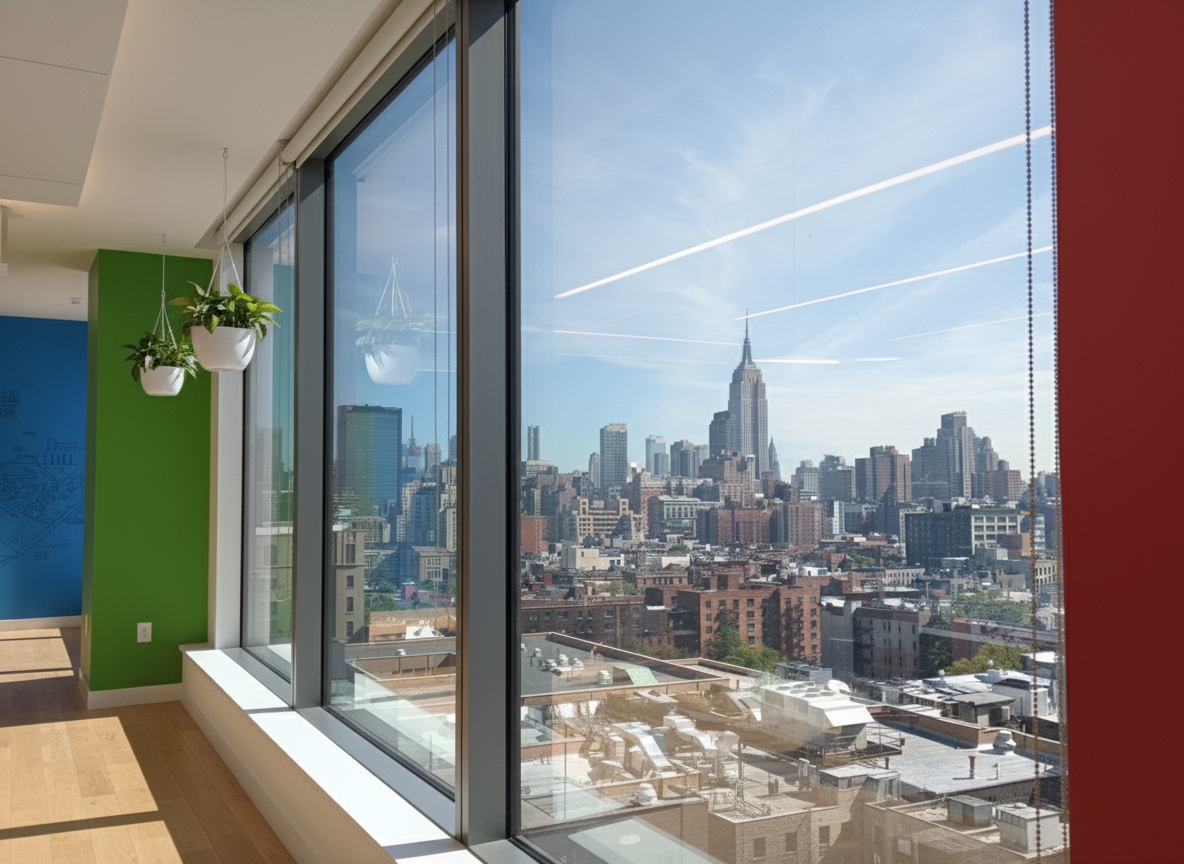
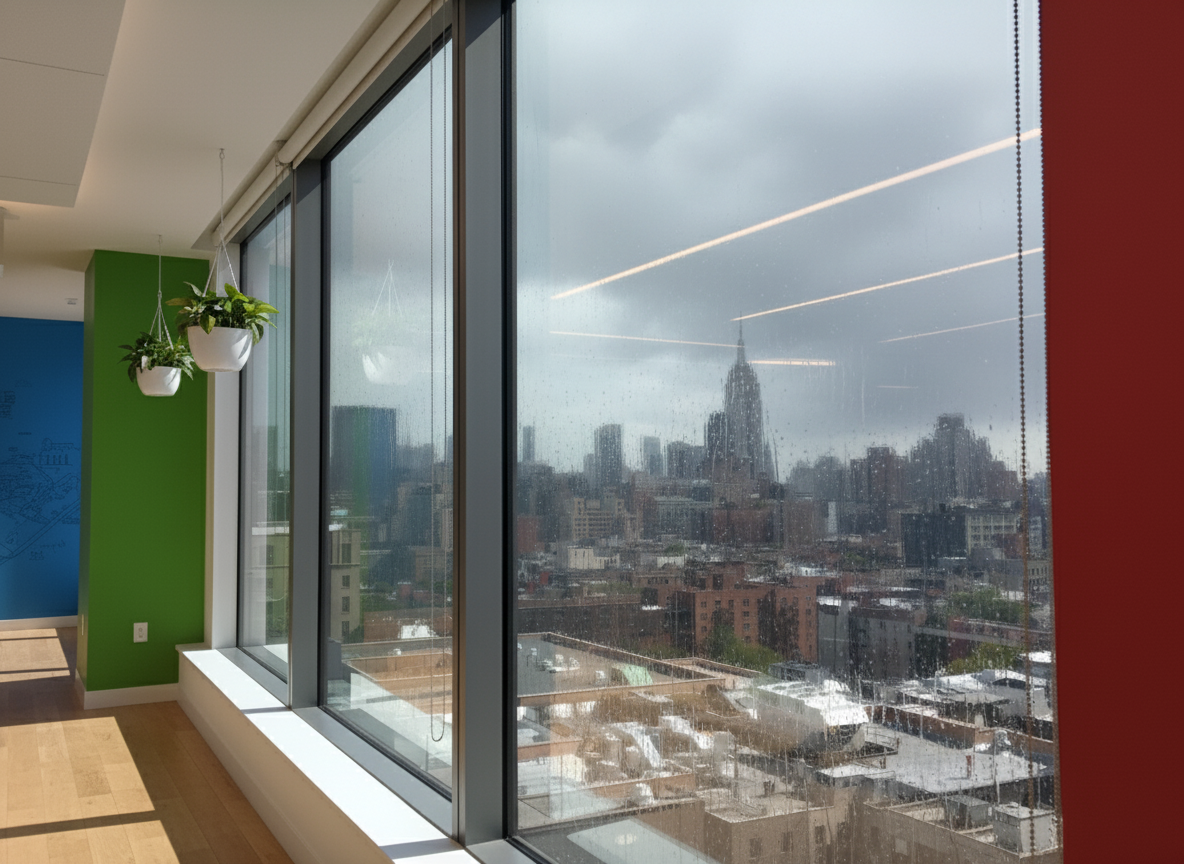
Update current virtual office image

diff --git a/index.html b/index.html
@@ -33,7 +33,7 @@
   </style>
 </head>
 <body>
-  <img src="./virtual-office-current.png?v=1776869893" alt="Current virtual office weather image">
-  <div class="stamp">Last updated: 2026-04-22 07:58 PDT</div>
+  <img src="./virtual-office-current.png?v=1776877121" alt="Current virtual office weather image">
+  <div class="stamp">Last updated: 2026-04-22 09:58 PDT</div>
 </body>
 </html>
